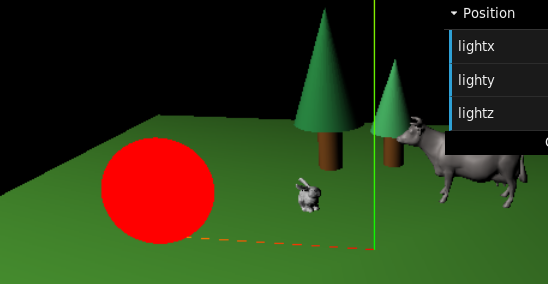
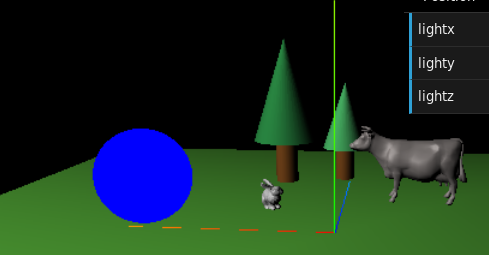
TP3 : changement couleur shpere shader

Changed region(s): [[0.0, 0.0, 1.0, 0.9333], [0.3988, 0.8784, 0.4601, 0.9059], [0.3374, 0.8784, 0.3681, 0.9059]]

diff --git a/Sujets TP/TP3/scene_foret.js b/Sujets TP/TP3/scene_foret.js
@@ -84,15 +84,28 @@ function init() {
         import_obj_smooth('cow.obj',2,scene,-2,3,0);
         //import_obj('Orange.obj',1.5,scene,4,-1,0);
 
+        
+        //Création du ShaderMaterial
+        //Vertex shader
+        myVertexShader = `
+                void main() 
+                {
+                vec4 worldPos = modelMatrix * vec4(position, 1.0);  
+                gl_Position = projectionMatrix * viewMatrix * worldPos;
+                }`
+        //Pixel shader
+        myFragmentShader = `  
+                void main() 
+                { 
+                gl_FragColor = vec4(0.5, 0.0, 0.8, 0.0);
+                }`
+        
+        shaderMaterialParams = { vertexShader: myVertexShader, fragmentShader: myFragmentShader };
+
         //sphere pour support TP3
         var sphere = new THREE.Mesh(
                 new THREE.SphereGeometry(1,120,120),
-                new THREE.ShaderMaterial({
-                        uniforms: {
-                                time: { value: 1.0 },
-                                resolution: { value: new THREE.Vector2() }
-                        },
-                })
+                new THREE.ShaderMaterial(shaderMaterialParams)
         );
         sphere.position.set(4,1.5,-1);
         scene.add(sphere);
